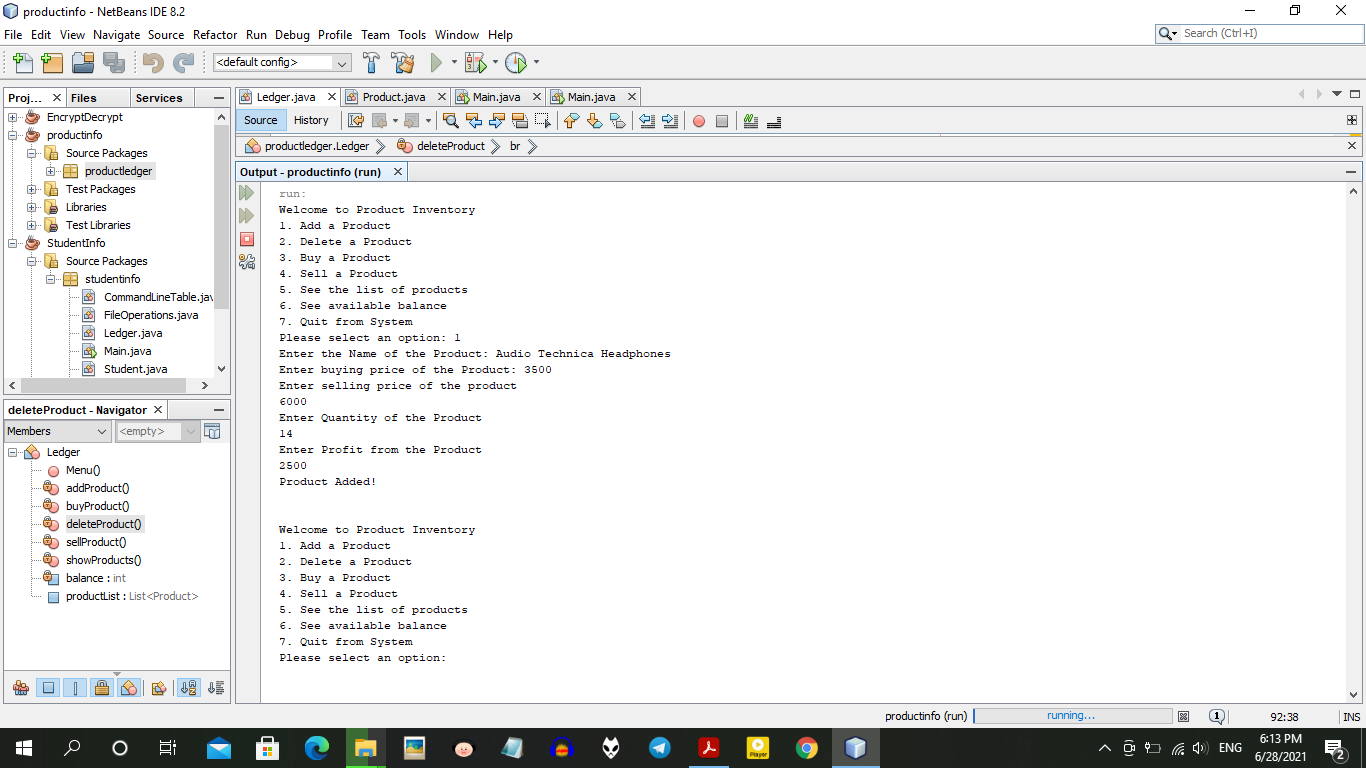
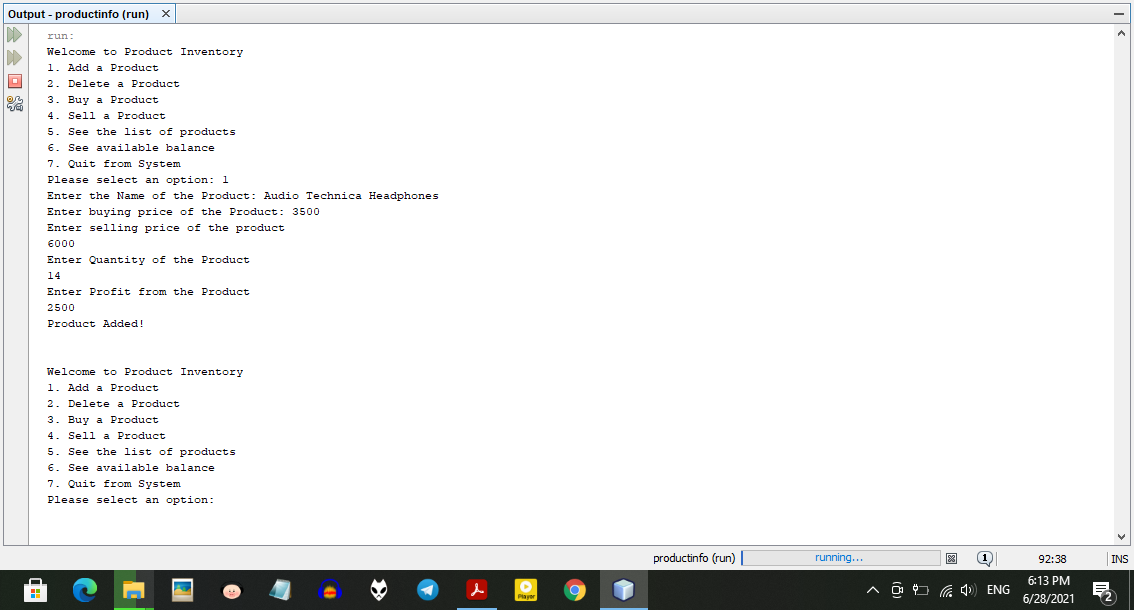
Slight fix and Screenshot Updated

Changed region(s): [[0.0, 0.0, 1.0, 1.0]]

diff --git a/src/productledger/Ledger.java b/src/productledger/Ledger.java
@@ -189,7 +189,7 @@ public class Ledger {
         System.out.println();
         index++;
     }
-    System.out.println("-----------------------------------------------------------------------------");
+    System.out.println("---------------------------------------------------------------------------------");
     }
     
     }
